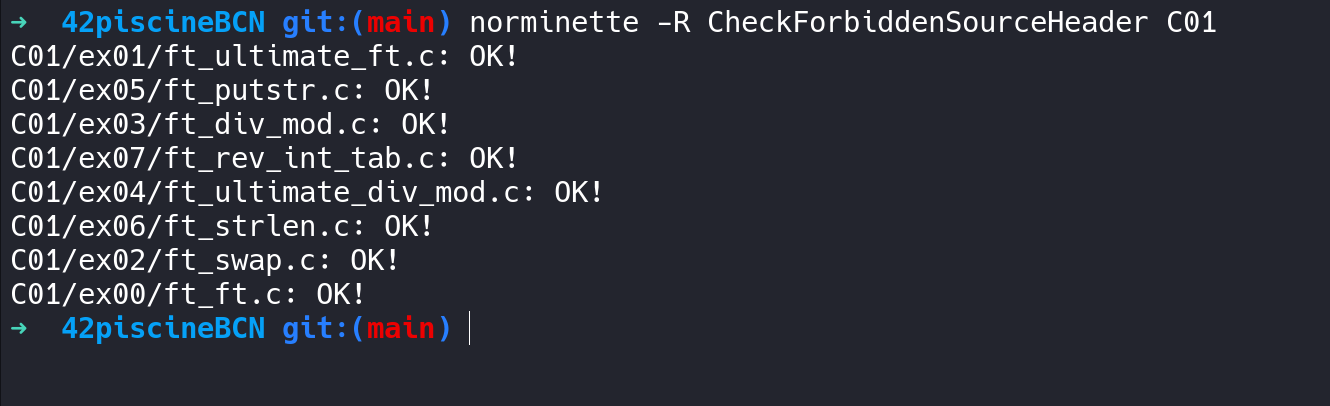
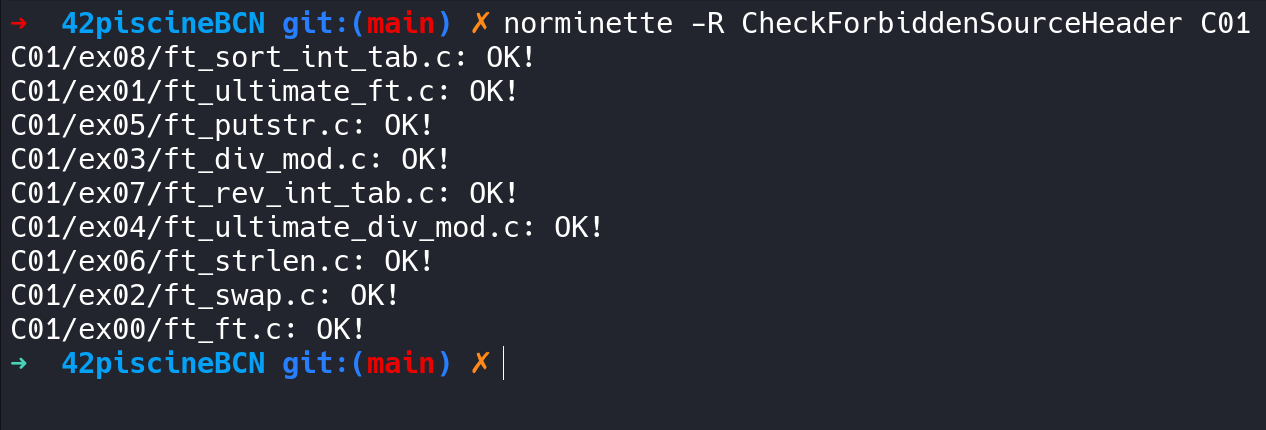
update

Changed region(s): [[0.0, 0.0296, 0.9858, 0.8867]]

diff --git a/C01/ex08/ft_sort_int_tab.c b/C01/ex08/ft_sort_int_tab.c
@@ -1,49 +1,61 @@
 /* ************************************************************************** */
 /*                                                                            */
 /*                                                        :::      ::::::::   */
-/*   ft_strcapitalize.c                                 :+:      :+:    :+:   */
+/*   ft_sort_int_tab.c                                  :+:      :+:    :+:   */
 /*                                                    +:+ +:+         +:+     */
 /*   By: jfontbon <jfontbon@student.42barcelona.co  +#+  +:+       +#+        */
 /*                                                +#+#+#+#+#+   +#+           */
-/*   Created: 2025/03/31 11:22:21 by jfontbon          #+#    #+#             */
-/*   Updated: 2025/04/05 18:31:21 by jfontbon         ###   ########.fr       */
+/*   Created: 2025/04/05 17:41:29 by jfontbon          #+#    #+#             */
+/*   Updated: 2025/04/05 18:00:15 by jfontbon         ###   ########.fr       */
 /*                                                                            */
 /* ************************************************************************** */
-
 #include <stdio.h>
 
-char	*ft_strcapitalize(char *str)
+void	ft_sort_int_tab(int *tab, int size)
 {
+	int	i;
+	int	j;
+	int	tmp;
+
+	i = 0;
+	while (i < size)
+	{
+		j = i + 1;
+		while (j < size)
+		{
+			if (tab[i] > tab[j])
+			{
+				tmp = tab[i];
+				tab[i] = tab[j];
+				tab[j] = tmp;
+			}
+			j++;
+		}
+		i++;
+	}
+}
+
+/*int	main(void)
+{
+	int	tab[10] = {4, 5, 3, 9, 2, 6, 1, 0, 7, 8};
+	int	size = 10;
 	int	i;
 	int	j;
 
 	i = 0;
 	j = 0;
-	while (str[i] != '\0')
+	printf("Array before: \n");
+	while (i < size)
 	{
-		if (str[i] == ' ' || str[i] == '+' || str[i] == '-')
-		{
-			if (str[j] >= 'a' && str[j] <= 'z')
-			{
-				str[j] -= 32;
-			}
-			j = i + 1;
-		}
+		printf("%d ", tab[i]);
 		i++;
 	}
-	if (str[j] >= 'a' && str[j] <= 'z')
-	{
-		str[j] -= 32;
+	printf("\n");
+	printf("\nArray after: \n");
+	ft_sort_int_tab(tab, size);
+	while (j < size)
+        {
+		printf("%d ", tab[j]);
+		j++;
 	}
-	return (str);
-}
-
-/*int	main(void)
-{
-	char	mystr[] = "HELLO";
-	char	*mystrptr = mystr;
-	char	*result;
-	result = ft_strcapitalize(mystrptr);
-	printf("%s\n", result);
-	return (0);
 }*/

diff --git a/C02/ex10/ft_strlcpy.c b/C02/ex10/ft_strlcpy.c
@@ -1,48 +1,52 @@
 /* ************************************************************************** */
 /*                                                                            */
 /*                                                        :::      ::::::::   */
-/*   ft_str_is_alpha.c                                  :+:      :+:    :+:   */
+/*   ft_strlcpy.c                                       :+:      :+:    :+:   */
 /*                                                    +:+ +:+         +:+     */
 /*   By: jfontbon <jfontbon@student.42barcelona.co  +#+  +:+       +#+        */
 /*                                                +#+#+#+#+#+   +#+           */
-/*   Created: 2025/03/31 10:39:30 by jfontbon          #+#    #+#             */
-/*   Updated: 2025/04/05 18:27:34 by jfontbon         ###   ########.fr       */
+/*   Created: 2025/04/05 18:04:06 by jfontbon          #+#    #+#             */
+/*   Updated: 2025/04/05 18:20:49 by jfontbon         ###   ########.fr       */
 /*                                                                            */
 /* ************************************************************************** */
 
-#include <unistd.h>
+#include <stdio.h>
 
-int	ft_str_is_alpha(char *str)
+int	ft_strlen(char *str)
 {
-	int	is_letter;
-	int	i;
+	unsigned int	i;
 
 	i = 0;
 	while (str[i] != '\0')
 	{
-		if ((str[i] >= 'A' && str[i] <= 'Z')
-			|| (str[i] >= 'a' && str[i] <= 'z'))
-		{
-			is_letter = 1;
-		}
-		else
-		{
-			is_letter = 0;
-			break ;
-		}
 		i++;
 	}
-	return (is_letter);
+	return (i);
+}
+
+unsigned int	ft_strlcpy(char *dest, char *src, unsigned int size)
+{
+	unsigned int	j;
+
+	j = 0;
+	if (size > 0)
+	{
+		while (j < size && src[j] != '\0')
+		{
+			dest[j] = src[j];
+			j++;
+		}
+		dest[j] = '\0';
+	}
+	return (ft_strlen(src));
 }
 
 /*int	main(void)
 {
-	char	mystr[] = "test1";
-	char	*mystrptr = mystr;
-	int	result;
-	result = ft_str_is_alpha(mystrptr);
-	result = (result % 10) + '0';
-	write(1, &result, 1);
-	write(1, "\n", 1);
+	char 	dest[10];
+	int	size = 5;
+	unsigned int copied = ft_strlcpy(dest, "Hola mundo", size);
+	printf("dest: %s\n", dest);
+	printf("Longitud de src: %i\n", copied);
 	return (0);
 }*/
